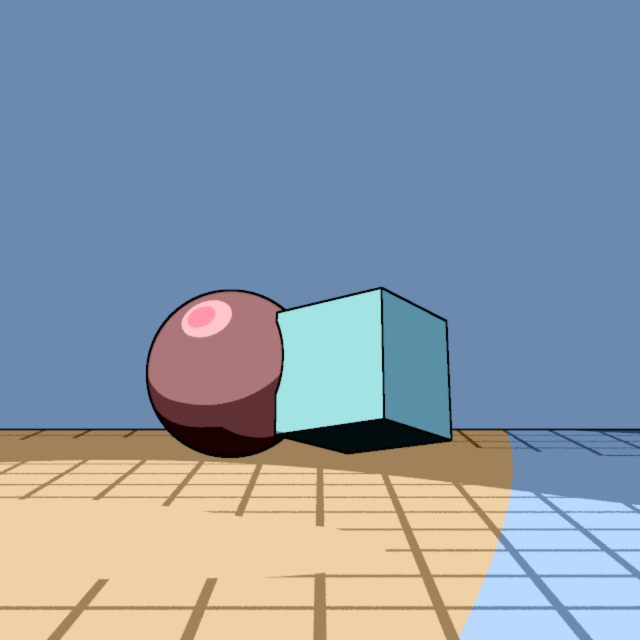
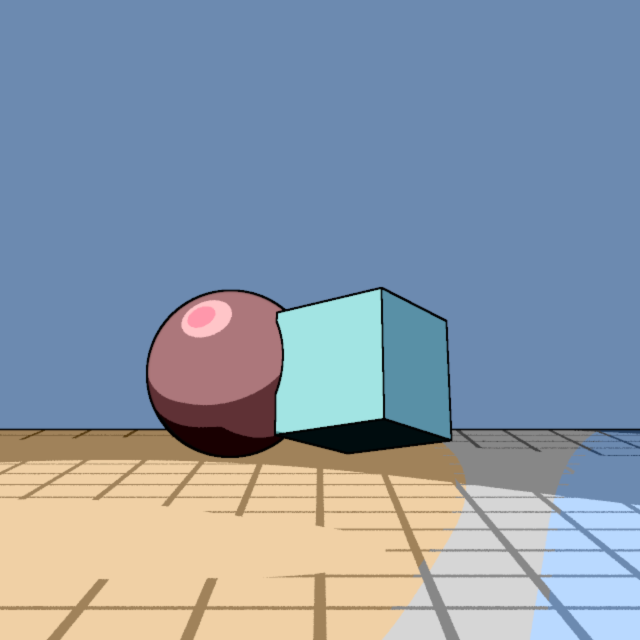
popraviti ahromatske boje i depth ivice u cel demou (fix)

Changed region(s): [[0.5938, 0.6562, 0.9375, 1.0]]

diff --git a/src/xyz/marsavic/gfxlab/tonemapping/CelShader3.java b/src/xyz/marsavic/gfxlab/tonemapping/CelShader3.java
@@ -33,6 +33,7 @@ public record CelShader3(
 
 
 	private static final double OKHCL_CHROMA_NORM = 0.4;
+	private static final double ACHROMATIC_EPS = 0.002;
 
 	private static final double[][] SOBEL_X = {
 			{-1, 0, 1},
@@ -94,9 +95,11 @@ public record CelShader3(
 
 	private Color quantize(Color color) {
 		Vec3 hcl = color.okhcl();
+		double ql = bandify(hcl.z(), lightnessBands);
+		if (hcl.y() < ACHROMATIC_EPS)
+			return Color.okhcl(0, 0, ql).clampTo01();
 		double qh = bandify(hcl.x(), hueBands);
 		double qc = bandify(hcl.y() / OKHCL_CHROMA_NORM, chromaBands) * OKHCL_CHROMA_NORM;
-		double ql = bandify(hcl.z(), lightnessBands);
 		return Color.okhcl(qh, qc, ql).clampTo01();
 	}
 

diff --git a/src/xyz/marsavic/gfxlab/graphics3d/scenes/SceneCelDemo.java b/src/xyz/marsavic/gfxlab/graphics3d/scenes/SceneCelDemo.java
@@ -94,7 +94,7 @@ public record SceneCelDemo() implements FFSceneT {
 						sizeHi
 				),
 				new RenderOnce(
-						e(RayTracerDepth.class, sceneNode, e(15.0)),
+						e(RayTracerDepth.class, sceneNode, e(30.0)),
 						e(TransformationFromSize.ToGeometricT0_.class),
 						sizeHi
 				),

diff --git a/README.md b/README.md
@@ -49,8 +49,8 @@ Shader prima tri prolaza:
    nje se hvataju pregibi unutar istog objekta, tamo gde se površina savija, a silueta
    ostaje ista.
 3. **Depth**: [RayTracerDepth](src/xyz/marsavic/gfxlab/graphics3d/raytracers/RayTracerDepth.java)
-   kroz RenderOnce. Prvi hit, rastojanje do tačke skalirano u `[0,1]`. Iz njega se
-   hvataju siluete i mesta gde jedan objekat zaklanja drugi.
+   kroz RenderOnce. Prvi hit, dubina duž pravca gledanja skalirana u `[0,1]` deljenjem
+   sa `farPlane`. Iz nje se hvataju siluete i mesta gde jedan objekat zaklanja drugi.
 
 U agregatoru ima smisla usrednjavati samo boju. Za normale i dubinu nam
 treba stanje površine tačno u centru piksela, pa za njih ide zaseban
@@ -75,6 +75,11 @@ granice traka raspoređene bliže tome kako ih ljudsko oko vidi. Sve tri kompone
 (lightness, chroma, hue) se kvantizuju isto: `bandify` zaokruži vrednost na centar
 njene trake (`floor(v*n)`, clampovano, pa `(band+0.5)/n`). U demou ih je 4 za
 lightness, 3 za chroma i 12 za hue.
+
+Izuzetak su zaista ahromatske boje (chroma ispod `ACHROMATIC_EPS`): tu je hue samo
+numerički šum (atan2 vrednosti blizu nule), pa bi mapiranje na centar trake dodalo
+nasumičan ton. Zato se hue i chroma postave na 0 (piksel ostaje siv), a kvantizuje se
+samo lightness.
 
 Chroma je jedina komponenta bez prirodne gornje granice. Lightness ide od 0 (crna)
 do 1 (bela), a hue je ugao normalizovan na `[0,1]` (turnova); chroma zavisi od boje i za sve
